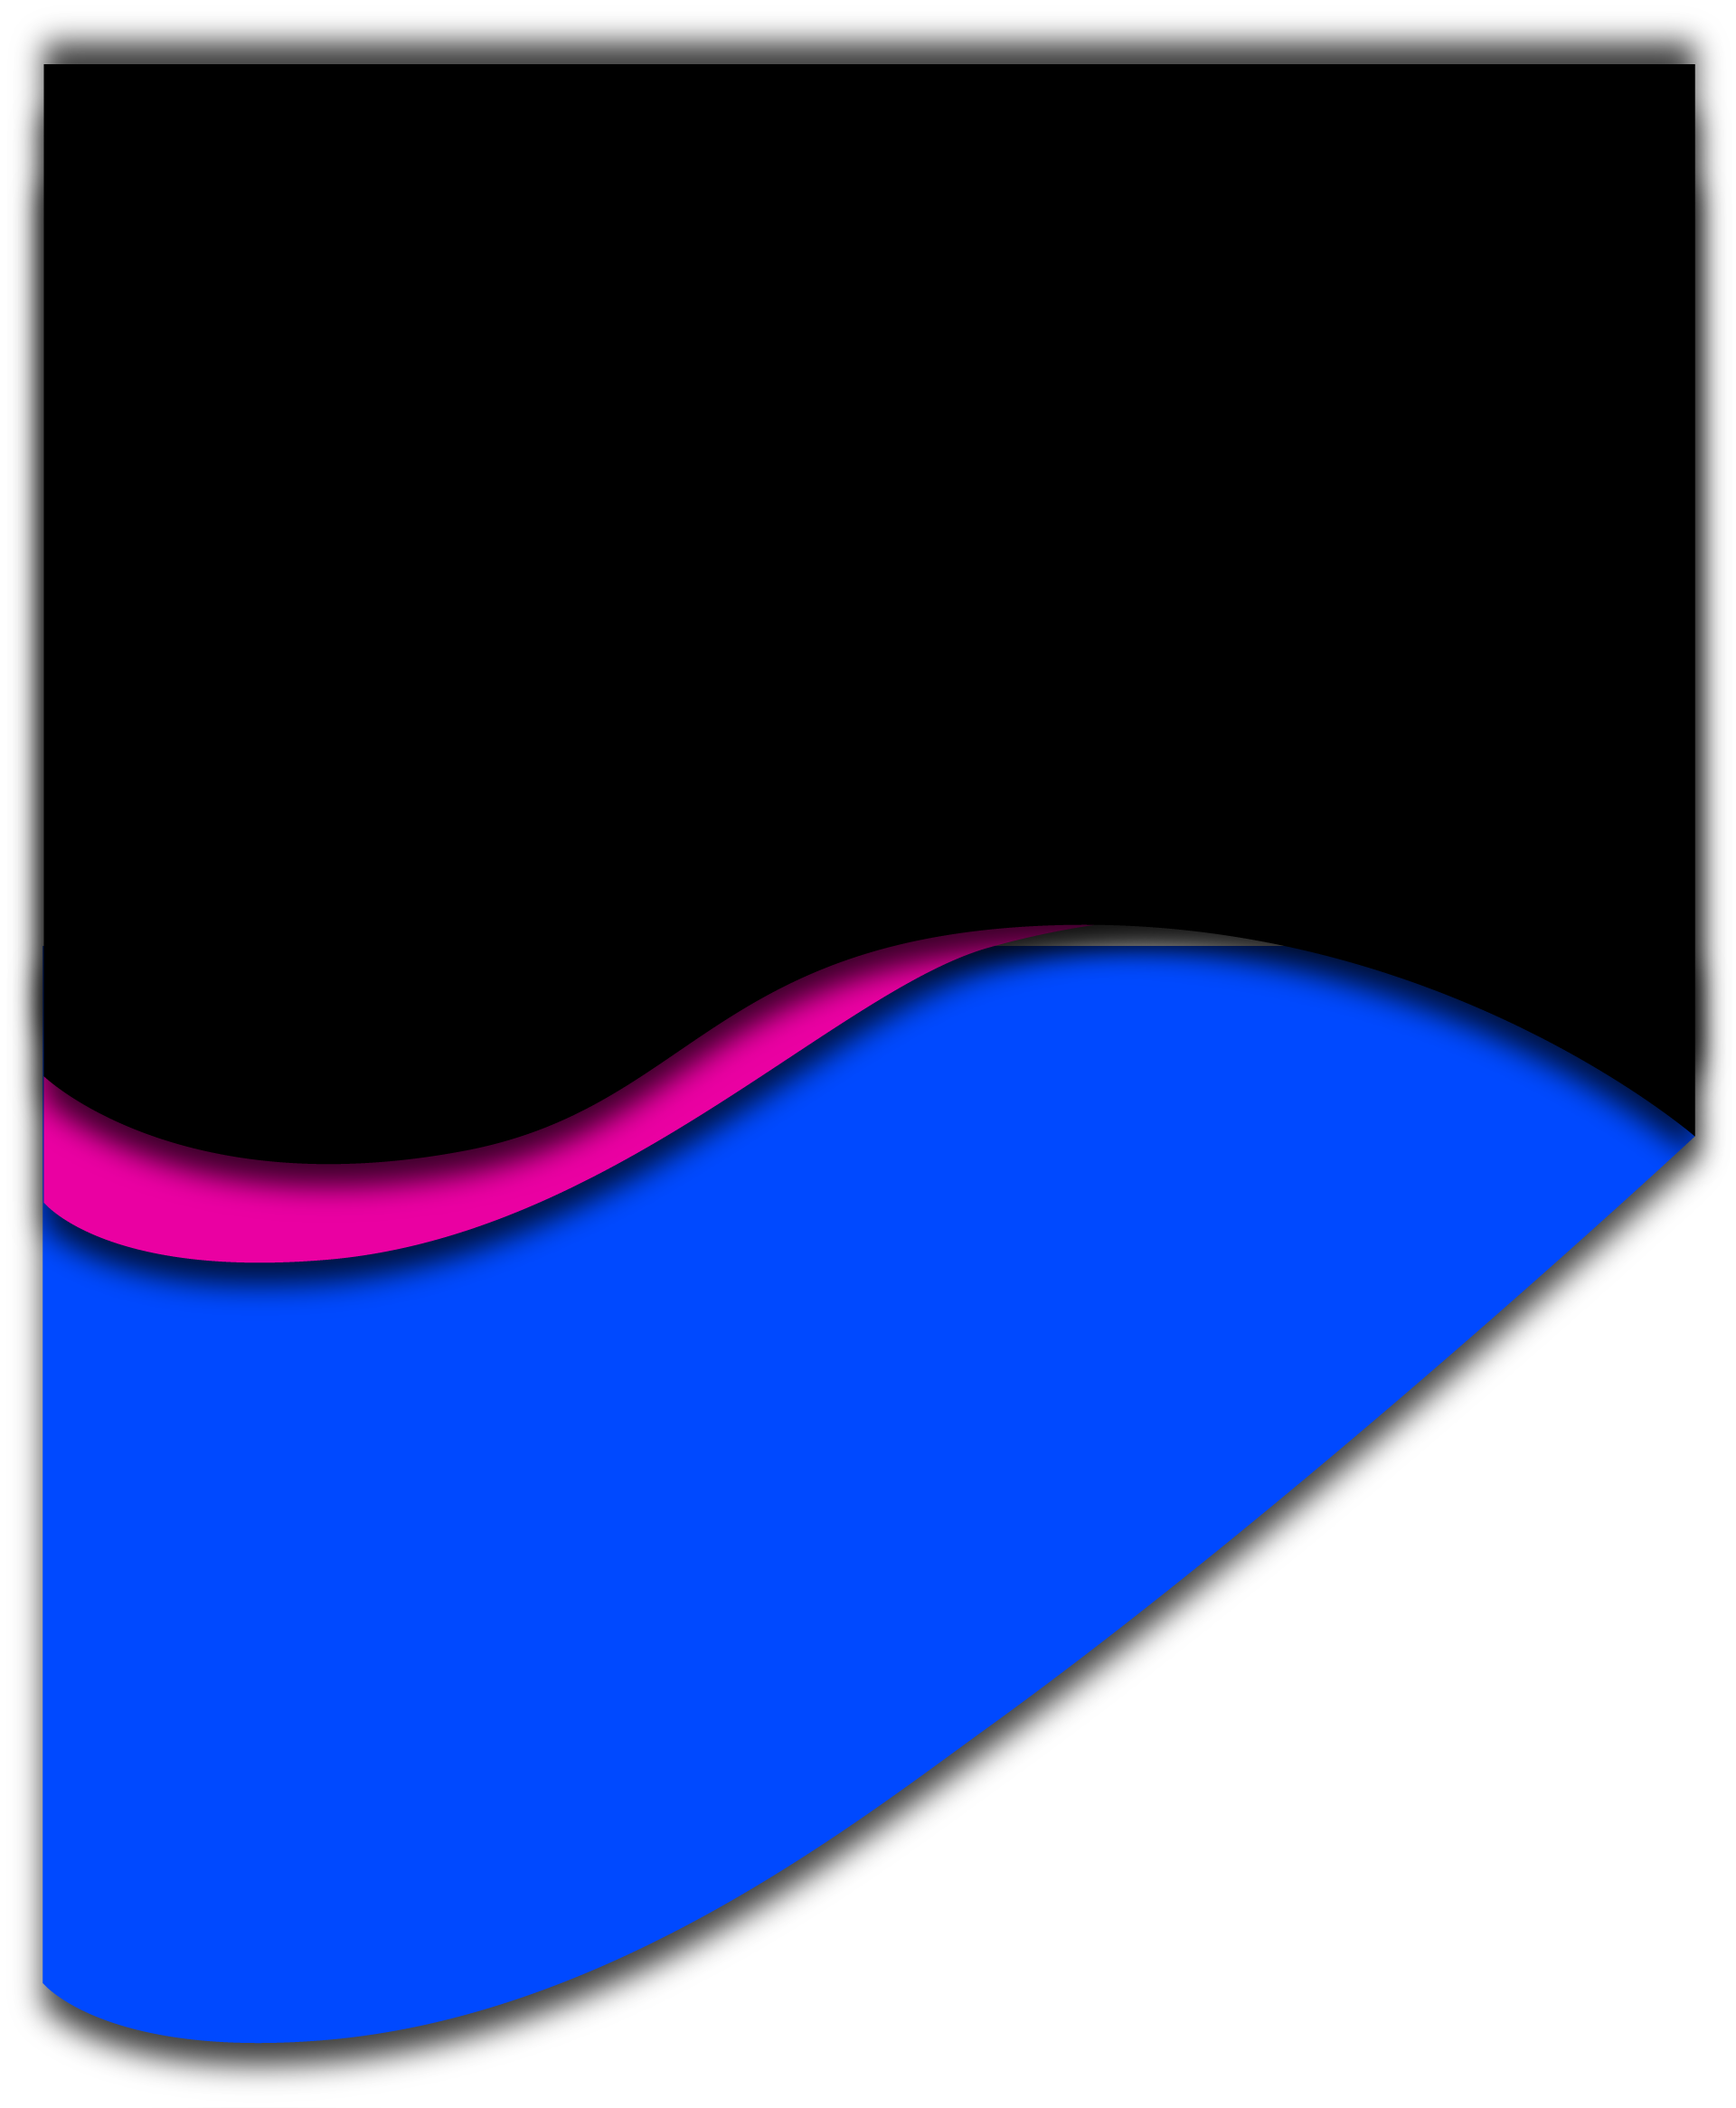
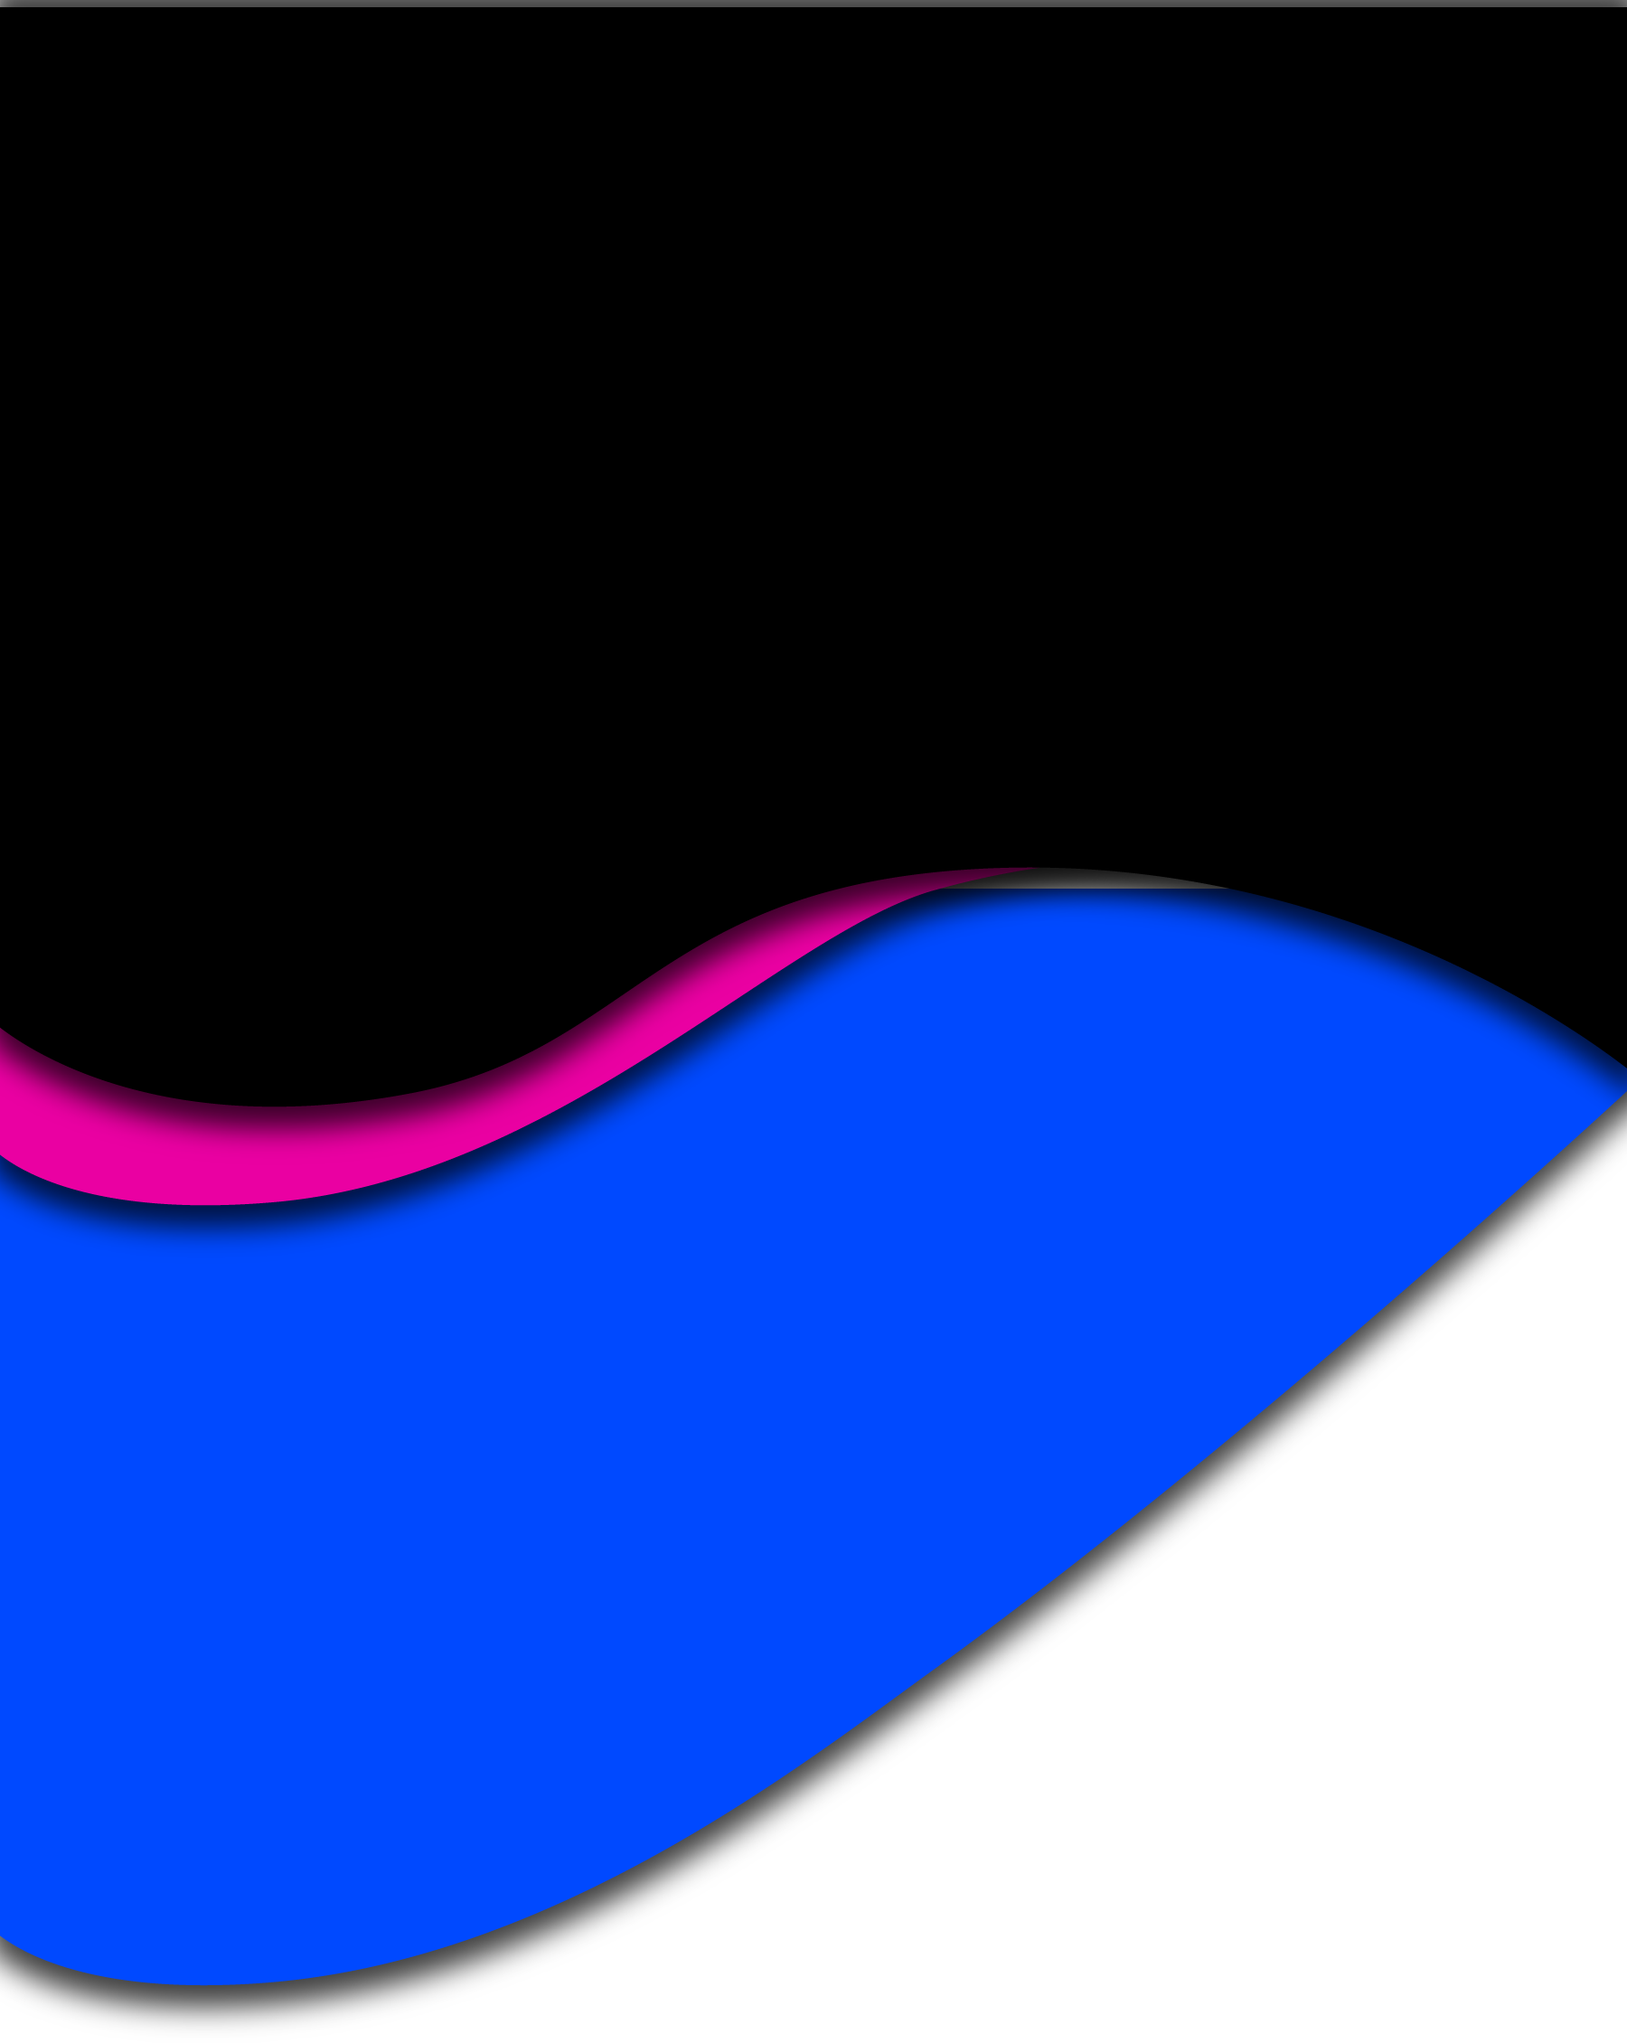
WIP

Changed region(s): [[0.0, 0.0, 1.0, 0.9912]]

diff --git a/src/components/About/About.js b/src/components/About/About.js
@@ -1,7 +1,35 @@
-import { Button } from '../Button/Button';
-import './About.css';
+import React, { useEffect } from "react";
+import { Button } from "../Button/Button";
+import "./About.css";
 
-export const About = () =>
-  <section className="About">
-    <Button>asdas</Button>
-  </section>
+export const About = () => {
+  useEffect(() => {
+    const el = document.querySelector("#About");
+
+    el.addEventListener("mousemove", (e) => {
+      el.style.backgroundPositionX = -e.offsetX * 0.5 + "px";
+      el.style.backgroundPositionY = -e.offsetY * 0.5 + "px";
+    });
+  }, []);
+
+  return (
+    <section className="About" id="About">
+      <div className="About-top">
+        <div className="About-top-description">
+          <div className="About-top-description-title">
+            <span>The</span> <span>3,456</span> <span>Noses</span>
+          </div>
+          <div className="About-top-description-body">
+            Bearing only marks in homage to their lineage, decided against their
+            originators' war-mongering nature and started living in harmony.
+            Each brings to the table the best they can offer, in exchange only
+            for camaraderie. Instead of competing for resources, the Noses got
+            together to figure out how to leverage each others' strengths to
+            advance as a society.
+          </div>
+        </div>
+        <Button>asdas</Button>
+      </div>
+    </section>
+  );
+};

diff --git a/src/components/About/About.css b/src/components/About/About.css
@@ -1,0 +1,27 @@
+.About {
+  background-image: url(./images/Background_Galaxy.png);
+  transition: ease-in-out 2s;
+}
+
+.About-top {
+  background-image: url(./images/Background_Top.png);
+  height: 800px;
+  background-size: cover;
+}
+
+.About-top-description-title {
+  font-size: 50px;
+  font-weight: bold;
+}
+
+.About-top-description-title > span:nth-child(1) {
+  color: #0049ff;
+}
+
+.About-top-description-title > span:nth-child(2) {
+  color: #ea00a2;
+}
+
+.About-top-description-title > span:nth-child(3) {
+  color: #ffd400;
+}
